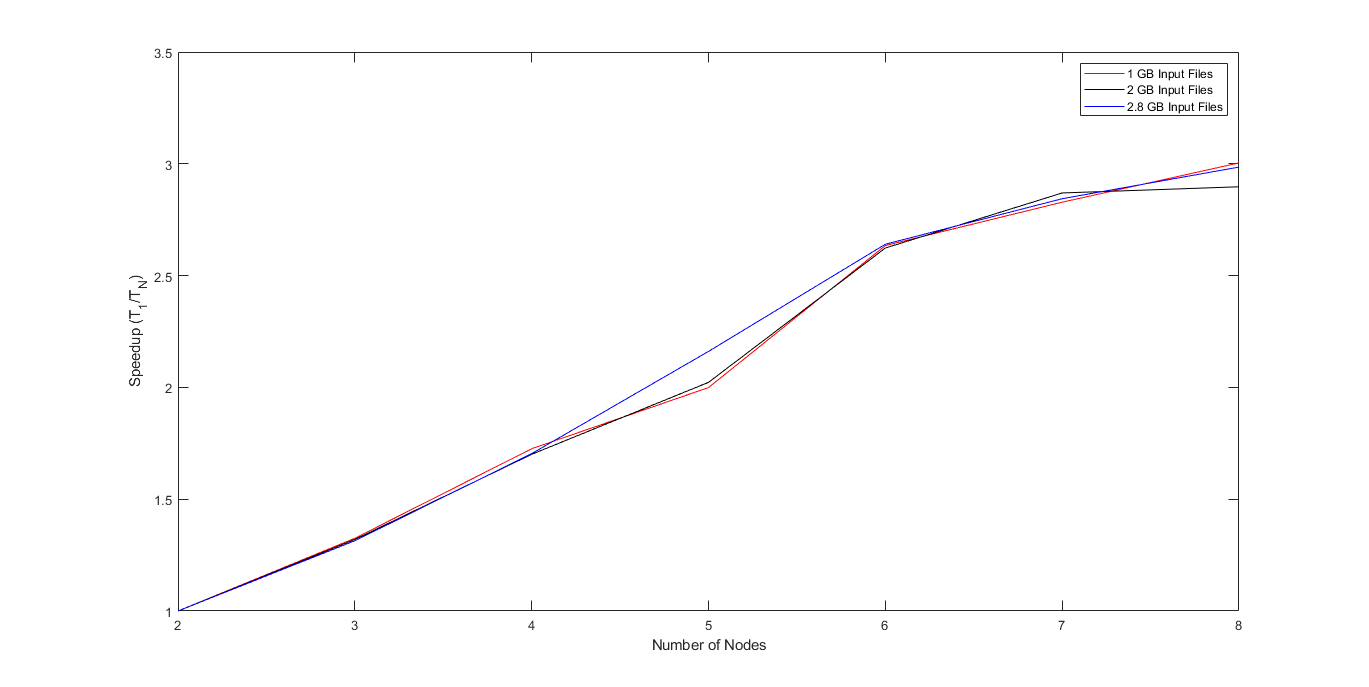
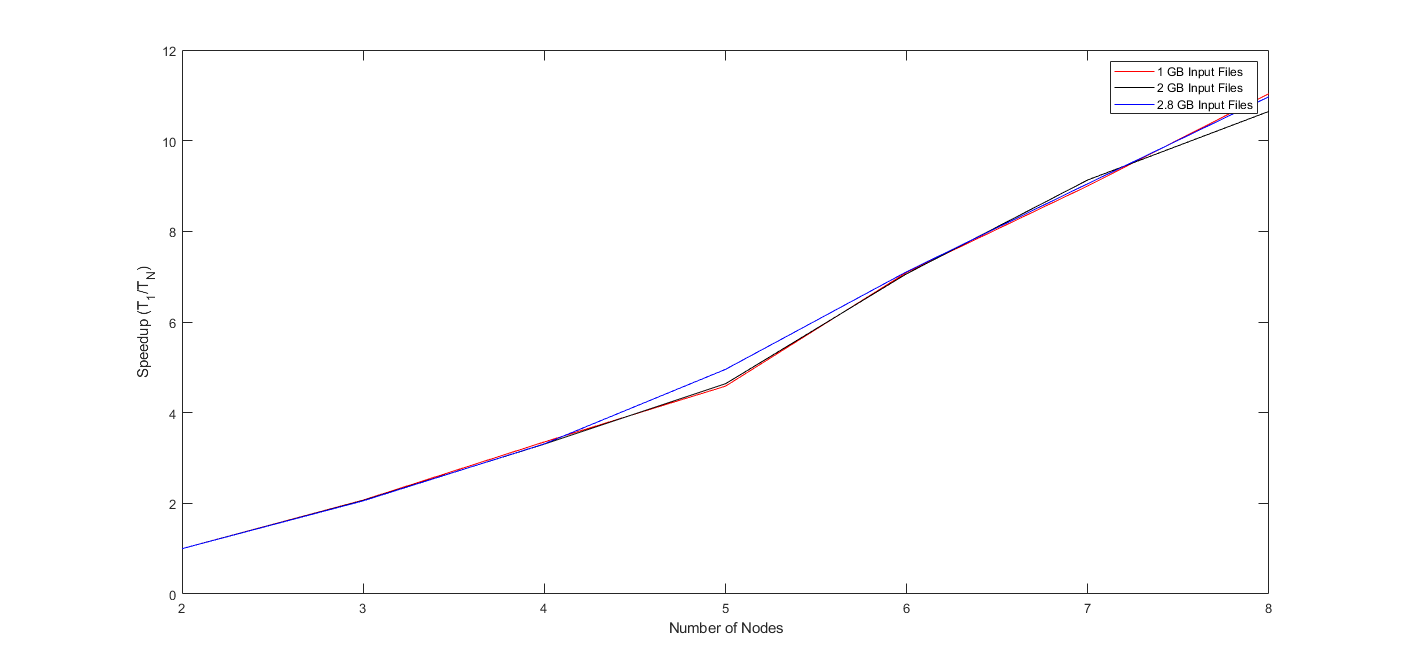
Updated hybrid results

diff --git a/Project_Graphs.m b/Project_Graphs.m
@@ -47,11 +47,11 @@ ylabel('Speedup (T_1/T_N)')
 legend('1 GB Input Files', '2 GB Input Files', '2.8 GB Input Files')
 
 %% Hybrid times per file size
-gb1 = [44699.273660 33726.023210 25900.586940 22358.448720 16967.617330 15804.263070 14879.622630];
+gb1 = [44699.273660 21574.42871 13324.38398 9750.672016 6301.072246 4965.061558 4048.935617];
 %           2      3         4           5         6           7        8
-gb2 = [86398.547330 65452.046420 50801.173890 42716.897430 32935.234660 30108.526410 29821.245250];
+gb2 = [86398.547330 41869.46384 26134.32464 18629.13038 12230.7858 9458.883744 8114.742223];
 
-gb2_8 = [120157.96630 91432.864980 70521.64344 55603.656410 45509.328520 42251.936590 40248.743350];
+gb2_8 = [120157.96630 58489.31001 36279.3885 24249.13389 16900.28489 13273.85308 10952.19782];
 node_num = [2 3 4 5 6 7 8];
 plot(node_num, gb1, node_num, gb2, node_num, gb2_8)
 xlabel('Number of Nodes')

diff --git a/Documentation/ELEN4020 Project Report.tex b/Documentation/ELEN4020 Project Report.tex
@@ -261,11 +261,11 @@ The benchmarks were run using three sets of input files of various sizes. Firstl
 		& 2 & 3 & 4 & 5 & 6 & 7 & 8 \\ 
 		\hline 
 		\hline 
-		1 & 44699.2736 s & 33726.0232 s & 25900.5869 s & 22358.4487 s & 16967.6173 s & 15804.2630 s & 14879.6226 s \\ 
+		1 & 44699.2736 s & 21574.4287 s & 13324.3839 s & 9750.6720 s & 6301.0722 s & 4965.0615 s & 4048.9356 s \\ 
 		\hline 
-		2 & 86398.5473 s & 65452.0464 s & 50801.1738 s & 42716.8974 s & 32935.2346 s & 30108.5264 s & 29821.2452 s \\ 
+		2 & 86398.5473 s & 41869.4638 s & 26134.3246 s & 18629.1303 s & 12230.7858 s & 9458.8837 s & 8114.7422 s \\ 
 		\hline 
-		2.8 & 120157.9663 s & 91432.8649 s & 70521.6434 s & 55603.6564 s & 45509.3285 s & 42251.9365 s & 40248.7433 s \\ 
+		2.8 & 120157.9663 s & 58489.3100 s & 36279.3885 s & 24249.1338 s & 16900.2848 s & 13273.8530 s & 10952.1978 s \\ 
 		\hline
 	\end{tabular} 
 }
